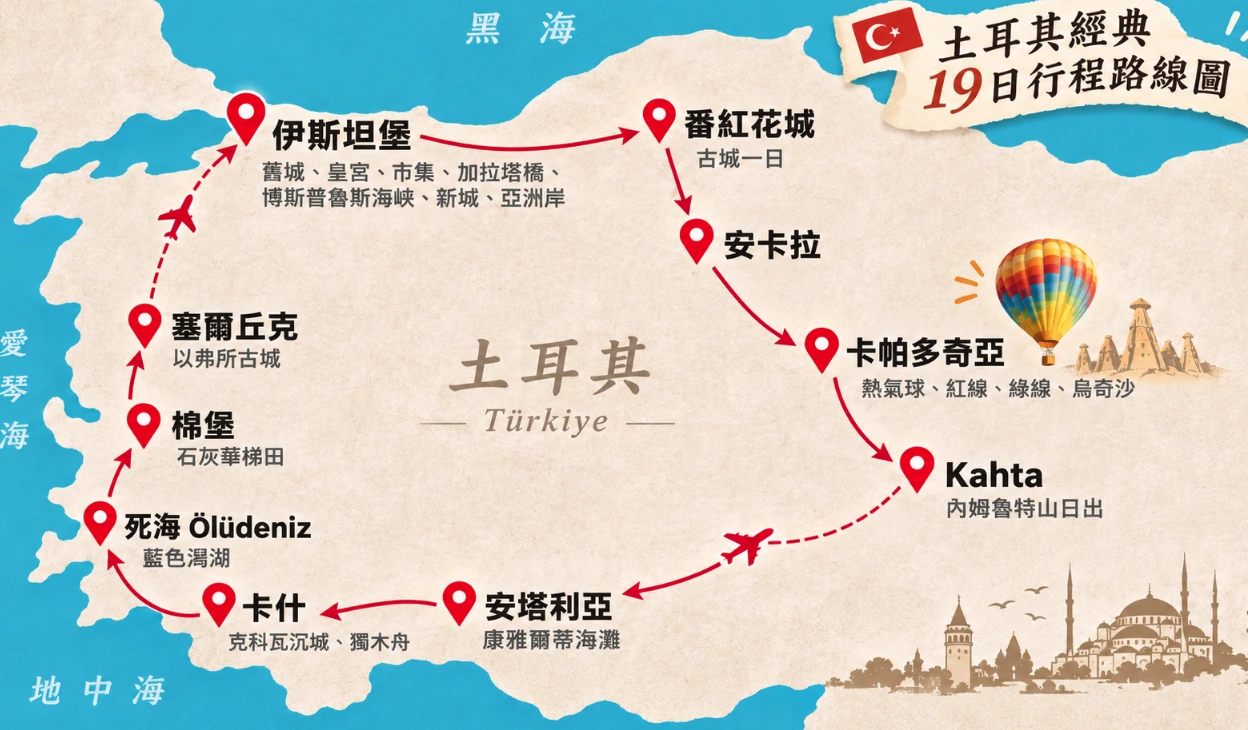
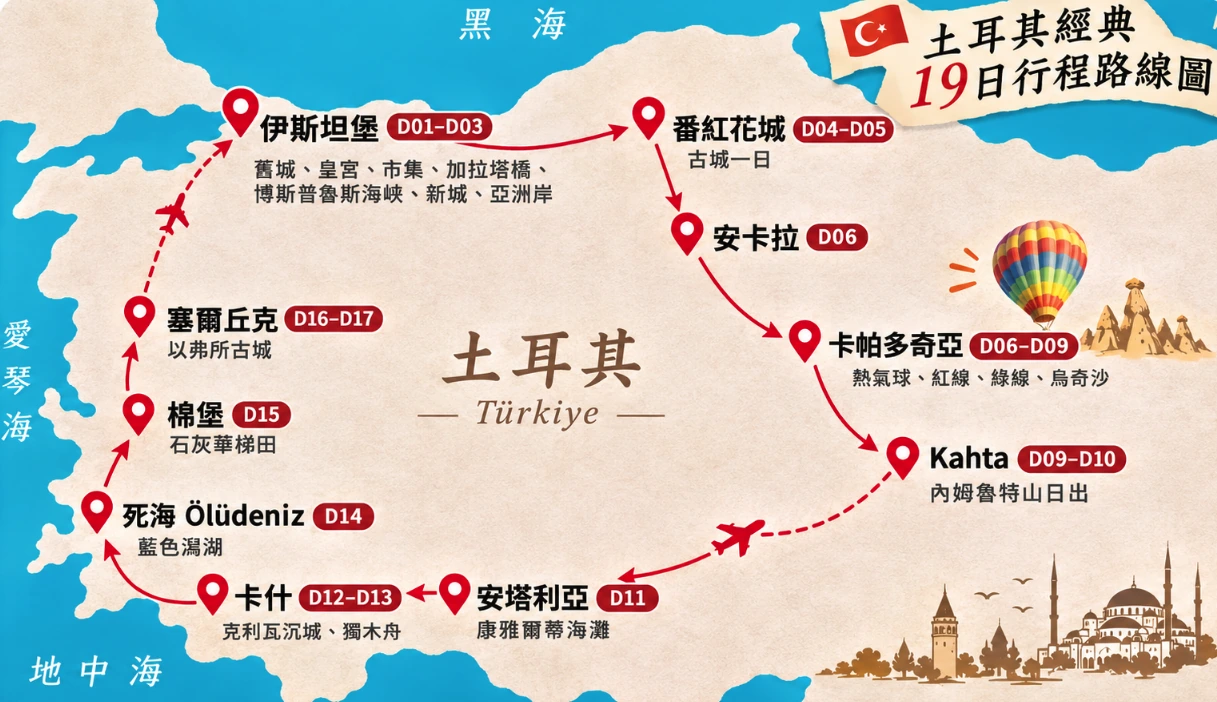
Update route map with day labels and aligned hotspots

diff --git a/index.html b/index.html
@@ -360,45 +360,45 @@
 </div>
 <figure class="illustrated-route">
 <div class="route-map-visual">
-<a class="route-map-image" href="assets/turkey-route-map.webp?v=2ea94b705d" target="_blank" rel="noopener noreferrer" aria-label="開啟完整土耳其路線大圖">
-<img src="assets/turkey-route-map.webp?v=2ea94b705d" width="1248" height="730" loading="lazy" decoding="async" alt="土耳其十九日環線插畫：由伊斯坦堡出發，經番紅花城、安卡拉、卡帕多奇亞、Kahta，沿地中海與愛琴海返回；藍色海域與米白陸地上以紅色箭頭串連城市。">
+<a class="route-map-image" href="assets/turkey-route-map.webp?v=224a11f519" target="_blank" rel="noopener noreferrer" aria-label="開啟完整土耳其路線大圖">
+<img src="assets/turkey-route-map.webp?v=224a11f519" width="1217" height="702" loading="lazy" decoding="async" alt="土耳其十九日環線插畫：由伊斯坦堡出發，經番紅花城、安卡拉、卡帕多奇亞、Kahta，沿地中海與愛琴海返回；藍色海域與米白陸地上以紅色箭頭串連城市。">
 </a>
 <nav class="route-map-pins" aria-label="地圖城市行程">
-<a class="route-pin" href="#slide-6" style="left:19.71%;top:15.75%" aria-label="伊斯坦堡，DAY 01–03 · 18–19，閱讀行程">
+<a class="route-pin" href="#slide-6" style="left:19.72%;top:15.81%" aria-label="伊斯坦堡，DAY 01–03 · 18–19，閱讀行程">
 <span>伊斯坦堡</span>
 </a>
-<a class="route-pin" href="#slide-11" style="left:52.72%;top:15.62%" aria-label="番紅花城，DAY 04–05，閱讀行程">
+<a class="route-pin" href="#slide-11" style="left:53.25%;top:16.95%" aria-label="番紅花城，DAY 04–05，閱讀行程">
 <span>番紅花城</span>
 </a>
-<a class="route-pin" href="#slide-14" style="left:55.77%;top:33.42%" aria-label="安卡拉，DAY 06 · 途經，閱讀行程">
+<a class="route-pin" href="#slide-14" style="left:56.45%;top:33.48%" aria-label="安卡拉，DAY 06 · 途經，閱讀行程">
 <span>安卡拉</span>
 </a>
-<a class="route-pin" href="#slide-14" style="left:65.79%;top:47.67%" aria-label="卡帕多奇亞，DAY 06–09，閱讀行程">
+<a class="route-pin" href="#slide-14" style="left:66.15%;top:48.72%" aria-label="卡帕多奇亞，DAY 06–09，閱讀行程">
 <span>卡帕多奇亞</span>
 </a>
-<a class="route-pin" href="#slide-21" style="left:73.48%;top:64.66%" aria-label="Kahta，DAY 09–10，閱讀行程">
+<a class="route-pin" href="#slide-21" style="left:74.20%;top:65.10%" aria-label="Kahta，DAY 09–10，閱讀行程">
 <span>Kahta</span>
 </a>
-<a class="route-pin" href="#slide-24" style="left:36.78%;top:82.60%" aria-label="安塔利亞，DAY 11，閱讀行程">
+<a class="route-pin" href="#slide-24" style="left:37.30%;top:84.47%" aria-label="安塔利亞，DAY 11，閱讀行程">
 <span>安塔利亞</span>
 </a>
-<a class="route-pin" href="#slide-26" style="left:17.55%;top:82.60%" aria-label="卡什，DAY 12–13，閱讀行程">
+<a class="route-pin" href="#slide-26" style="left:17.42%;top:84.47%" aria-label="卡什，DAY 12–13，閱讀行程">
 <span>卡什</span>
 </a>
-<a class="route-pin" href="#slide-28" style="left:8.09%;top:72.19%" aria-label="死海 Ölüdeniz，DAY 14，閱讀行程">
+<a class="route-pin" href="#slide-28" style="left:7.97%;top:72.65%" aria-label="死海 Ölüdeniz，DAY 14，閱讀行程">
 <span>死海 Ölüdeniz</span>
 </a>
-<a class="route-pin" href="#slide-31" style="left:11.54%;top:58.36%" aria-label="棉堡，DAY 15，閱讀行程">
+<a class="route-pin" href="#slide-31" style="left:11.34%;top:58.97%" aria-label="棉堡，DAY 15，閱讀行程">
 <span>棉堡</span>
 </a>
-<a class="route-pin" href="#slide-32" style="left:11.54%;top:44.66%" aria-label="塞爾丘克，DAY 16–17，閱讀行程">
+<a class="route-pin" href="#slide-32" style="left:11.42%;top:45.01%" aria-label="塞爾丘克，DAY 16–17，閱讀行程">
 <span>塞爾丘克</span>
 </a>
 </nav>
 </div>
 <figcaption>
 <span>沿著紅色路線，走一圈土耳其</span>
-<a href="assets/turkey-route-map.webp?v=2ea94b705d" target="_blank" rel="noopener noreferrer">開啟大圖 ↗</a>
+<a href="assets/turkey-route-map.webp?v=224a11f519" target="_blank" rel="noopener noreferrer">開啟大圖 ↗</a>
 </figcaption>
 </figure>
 <nav aria-label="沿途城市行程">

diff --git a/scripts/build.py b/scripts/build.py
@@ -71,10 +71,10 @@ def rows(data, width):
 def content(s):
     n=s['number']; a=s['paragraphs']
     if n==2:
-        stops=[('伊斯坦堡','DAY 01–03 · 18–19',6,246,115),('番紅花城','DAY 04–05',11,658,114),('安卡拉','DAY 06 · 途經',14,696,244),('卡帕多奇亞','DAY 06–09',14,821,348),('Kahta','DAY 09–10',21,917,472),('安塔利亞','DAY 11',24,459,603),('卡什','DAY 12–13',26,219,603),('死海 Ölüdeniz','DAY 14',28,101,527),('棉堡','DAY 15',31,144,426),('塞爾丘克','DAY 16–17',32,144,326)]
-        pins=''.join(f'<a class="route-pin" href="#slide-{target}" style="left:{x/1248*100:.2f}%;top:{y/730*100:.2f}%" aria-label="{e(city)}，{e(day)}，閱讀行程"><span>{e(city)}</span></a>' for city,day,target,x,y in stops)
+        stops=[('伊斯坦堡','DAY 01–03 · 18–19',6,240,111),('番紅花城','DAY 04–05',11,648,119),('安卡拉','DAY 06 · 途經',14,687,235),('卡帕多奇亞','DAY 06–09',14,805,342),('Kahta','DAY 09–10',21,903,457),('安塔利亞','DAY 11',24,454,593),('卡什','DAY 12–13',26,212,593),('死海 Ölüdeniz','DAY 14',28,97,510),('棉堡','DAY 15',31,138,414),('塞爾丘克','DAY 16–17',32,139,316)]
+        pins=''.join(f'<a class="route-pin" href="#slide-{target}" style="left:{x/1217*100:.2f}%;top:{y/702*100:.2f}%" aria-label="{e(city)}，{e(day)}，閱讀行程"><span>{e(city)}</span></a>' for city,day,target,x,y in stops)
         cities=''.join(f'<li><a href="#slide-{target}"><span class="route-stop-number">{i:02d}</span><span><strong>{e(city)}</strong><small>{e(day)}</small></span><span aria-hidden="true">↗</span></a></li>' for i,(city,day,target,x,y) in enumerate(stops,1))
-        illustration='<figure class="illustrated-route"><div class="route-map-visual"><a class="route-map-image" href="assets/turkey-route-map.webp" target="_blank" rel="noopener noreferrer" aria-label="開啟完整土耳其路線大圖"><img src="assets/turkey-route-map.webp" width="1248" height="730" loading="lazy" decoding="async" alt="土耳其十九日環線插畫：由伊斯坦堡出發，經番紅花城、安卡拉、卡帕多奇亞、Kahta，沿地中海與愛琴海返回；藍色海域與米白陸地上以紅色箭頭串連城市。"></a><nav class="route-map-pins" aria-label="地圖城市行程">'+pins+'</nav></div><figcaption><span>沿著紅色路線，走一圈土耳其</span><a href="assets/turkey-route-map.webp" target="_blank" rel="noopener noreferrer">開啟大圖 ↗</a></figcaption></figure><nav aria-label="沿途城市行程"><ol class="route-stops">'+cities+'</ol></nav>'
+        illustration='<figure class="illustrated-route"><div class="route-map-visual"><a class="route-map-image" href="assets/turkey-route-map.webp" target="_blank" rel="noopener noreferrer" aria-label="開啟完整土耳其路線大圖"><img src="assets/turkey-route-map.webp" width="1217" height="702" loading="lazy" decoding="async" alt="土耳其十九日環線插畫：由伊斯坦堡出發，經番紅花城、安卡拉、卡帕多奇亞、Kahta，沿地中海與愛琴海返回；藍色海域與米白陸地上以紅色箭頭串連城市。"></a><nav class="route-map-pins" aria-label="地圖城市行程">'+pins+'</nav></div><figcaption><span>沿著紅色路線，走一圈土耳其</span><a href="assets/turkey-route-map.webp" target="_blank" rel="noopener noreferrer">開啟大圖 ↗</a></figcaption></figure><nav aria-label="沿途城市行程"><ol class="route-stops">'+cities+'</ol></nav>'
         body=illustration+p(a[1])+'<div class="stats"><span><strong>18</strong>晚住宿</span><span><strong>11</strong>段交通</span><span><strong>3</strong>次熱氣球機會</span></div><ol class="route-list">'
         for number,route,time in rows(a[11:],3):body+=f'<li><div>{e(route)}</div><span>{e(time)}</span></li>'
         return body+'</ol><div class="city-maps"><h3>沿途城市 Google Maps</h3>'+''.join(maps(place_query(city),city) for city in ['伊斯坦堡','番紅花城','安卡拉','格雷梅','Kahta','安塔利亞','卡什','費特希耶','Ölüdeniz','棉堡','塞爾丘克','希林傑'])+'</div>'
